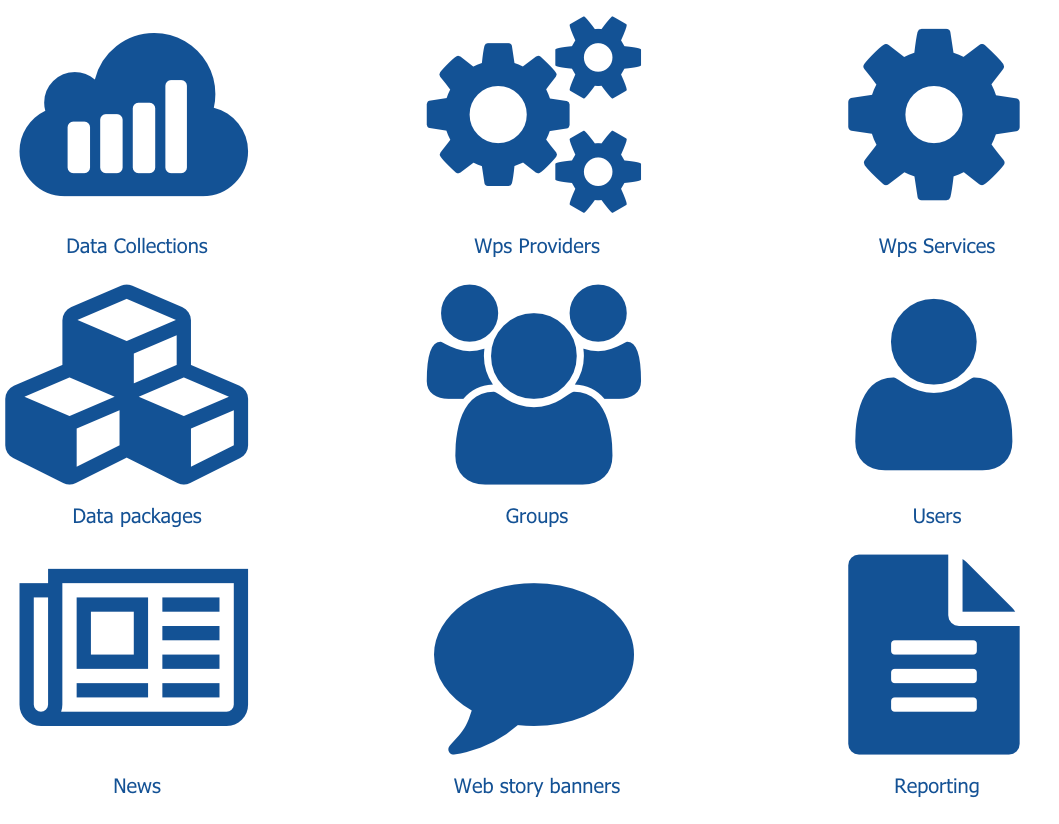
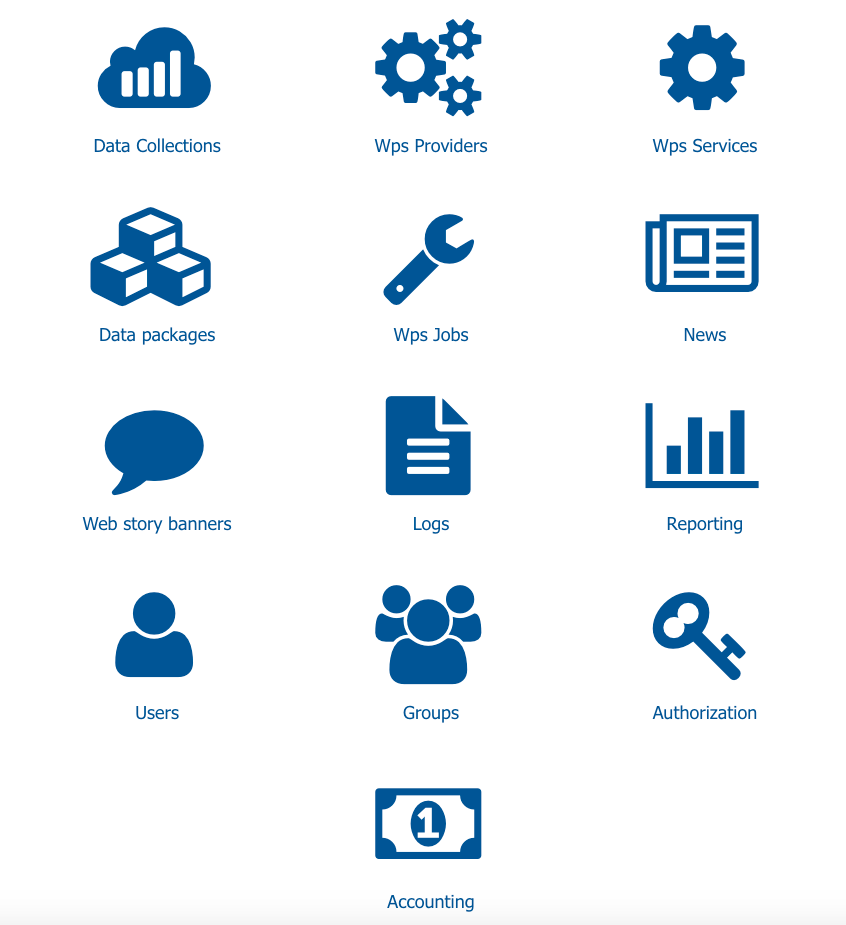
add accounting and missing control panel items

diff --git a/source/community-guide/user.rst b/source/community-guide/user.rst
@@ -166,7 +166,19 @@ See your usage
 To find out how you are using the platform, just go to the **Usage** tab on your profile page.
 You will see what is your level for each type of usage of the platform.
 
+
 .. figure:: ../includes/user_profile_usage.png
+	:figclass: img-border
+	:scale: 80%
+
+To find out more precisely the number of data packages you loaded, the number of jobs you created, how many failed or were successful, ... Just go the **Analytics** page from the portal homepage.
+You will see:
+
+- how many data collection you loaded
+- how many data packages and items you loaded
+- how many wps jobs you created and how many failed or succeeded
+
+.. figure:: ../includes/user_anaylytics.png
 	:figclass: img-border
 	:scale: 80%
 
@@ -174,3 +186,27 @@ You will see what is your level for each type of usage of the platform.
     :show:
 
     This section shows that the platform has an analytics web widget.
+
+See your accountings
+--------------------
+
+The accounting panel on your profile gives your current credit balance, as well as the list of all transactions associated to your account:
+
+- credit transactions
+- debit transactions reported by wps providers for the wps jobs you created
+- deposit transactions (see section below)
+
+.. figure:: ../includes/user_profile_accounting.png
+	:figclass: img-border
+	:scale: 80%
+
+.. _deposit:
+Deposit
+~~~~~~~
+
+A deposit transaction is performed when the user execute a job process using as balance the quotation returned first by the processing service for the selected parameters (it implies that the wps provider implemented the **quotation mode**). Deposit transactions can be *active* or *resolved*. An **active deposit** is accounted when calculating your account balance (covering the possible debit transactions associated to the same process). A **resolved deposit** is not accounted when calculating your account balance (but does not cover anymore the possible debit transactions associated to the same process). A deposit is automatically set from *active* to *resolved* when the job process status is not *In progress* anymore.
+
+Transaction policy
+~~~~~~~~~~~~~~~~~~
+
+The current policy for a wps job process accounting is that the total amount debited to the user corresponds to the real usage of the wps process and cannot be greather than the estimated deposit.

diff --git a/source/admin-guide/authorization.rst b/source/admin-guide/authorization.rst
@@ -1,0 +1,30 @@
+Authorization
+=============
+
+The authorization management page is the place where an administrator can handle domains, roles and privileges for users.
+
+Domain
+------
+
+A Domain is an organizational unit to regroup User, Group and Objects (Entity). It also contains the Thematic Communities.
+When a user is member of a domain, he can access entities which belong to this domain, according to the provileges defined in his role.
+
+Roles
+-----
+
+A Role defines the set of privileges that are granted to a User or a Group for a specific Domain or globally.
+A Privilege is an access control for a given entity (object) type. For all objects, there are 6 basic privileges : "Can Create", "Can Change", "Can Delete", "Can View", "Can Search", "Can Manage" and "Make Public". For instance, "Can Create" for Series specify the possibility to create a data collection in the system.
+
+From this tab, the administrator can for the selected role add or remove privileges.
+
+.. figure:: ../includes/role_priv.png
+	:align: center
+	:figclass: img-container-border
+	:scale: 50%
+
+Rolegrant
+---------
+
+The assignement of a Role to a User or a Group is called a "Role Grant". A Role Grant can be associated to a Domain and is therefore called "Domain Role Grant". A Role Grant not associated to any domain is a "Global Role Grant".
+
+From this tab, the administrator must first select a domain and then can see all existing role grants, add new ones or delete existing ones.

diff --git a/source/community-guide/processing.rst b/source/community-guide/processing.rst
@@ -25,8 +25,10 @@ To create a new job:
 
 1. Select the service you want to use (see `Discover existing WPS`_).
 2. Fill in the different parameters needed by the service (see `Fill in parameters`_).
-3. Click on **Run Job**
-4. To visualize the result of the job, see :doc:`Visualisation <visualisation>`
+3. If the wps service has implemented the quotation mode, you must first click on **Calculate cost** to get an estimation of the wps job cost.
+4. If you have enough credits on your account, you will be able to see the **Submit job** button.
+5. Click on **Run Job**
+6. To visualize the result of the job, see :doc:`Visualisation <visualisation>`
 
 Fill in parameters
 ------------------

diff --git a/source/admin-guide/control_panel.rst b/source/admin-guide/control_panel.rst
@@ -11,12 +11,16 @@ The control panel gives access to the administrator to the following pages:
 - :doc:`Data Collections management <data>`
 - :doc:`Wps Providers management <wps_provider>`
 - :doc:`Wps Services management <wps_service>`
+- :doc:`Wps Jobs management <wps_job>`
 - :doc:`Data Packages management <data>`
 - :doc:`Groups management <group>`
 - :doc:`Users management <user>`
 - :doc:`News management <news>`
 - :doc:`Web stories banners management <feature>`
 - :doc:`Reporting <report>`
+- :doc:`Logs <logs>`
+- :doc:`Authorization <authorization>`
+- :doc:`Accounting <accounting>`
 
 .. figure:: ../includes/control_panel.png
 	:figclass: img-border img-max-width

diff --git a/source/admin-guide/accounting.rst b/source/admin-guide/accounting.rst
@@ -1,0 +1,13 @@
+Accounting
+==========
+
+The accounting page gives to the administrator the credit balance, as well as the list of all transactions associated to a user account. Once the user selected, the following information are available:
+
+- current user balance
+- credit transactions
+- debit transactions reported by wps providers for the wps jobs created by the user
+- deposit transactions (see :ref:`deposit`)
+
+.. figure:: ../includes/accounting.png
+	:figclass: img-border
+	:scale: 80%

diff --git a/source/admin-guide/index.rst b/source/admin-guide/index.rst
@@ -8,9 +8,13 @@ Urban thematic exploitation platform administrator guide
    Data Collection management<data>
    Wps Providers management<wps_provider>
    Wps Services management<wps_service>
+   Wps Jobs management<wps_job>
    Data Packages management<data_package>
    Groups management<group>
    Users management<user>
    News management<news>
    Web stories banners management<feature>
    Reporting <report>
+   Logs <logs>
+   Authorization <authorization>
+   Accounting <accounting>

diff --git a/source/admin-guide/wps_job.rst b/source/admin-guide/wps_job.rst
@@ -1,0 +1,5 @@
+WPS jobs management
+===================
+
+The Wps Job management page gives to the administrator to the list of all wps jobs created on the platform.
+The administrator can also for a choosen job get a detailed view with the possibility to copy the job to his list of jobs (as he created it himself). This is useful for example to test the output results of the job on the map when the job is not shared.

diff --git a/source/admin-guide/logs.rst b/source/admin-guide/logs.rst
@@ -1,0 +1,5 @@
+Logs
+====
+
+The logs page allow the administrator to access the log files saved on the server and see all logs saved from the platform usage.
+Logs are organised by date (there can be several files per day) and contains for all information the log time, the connected user performing the operation and a description of the operation.
